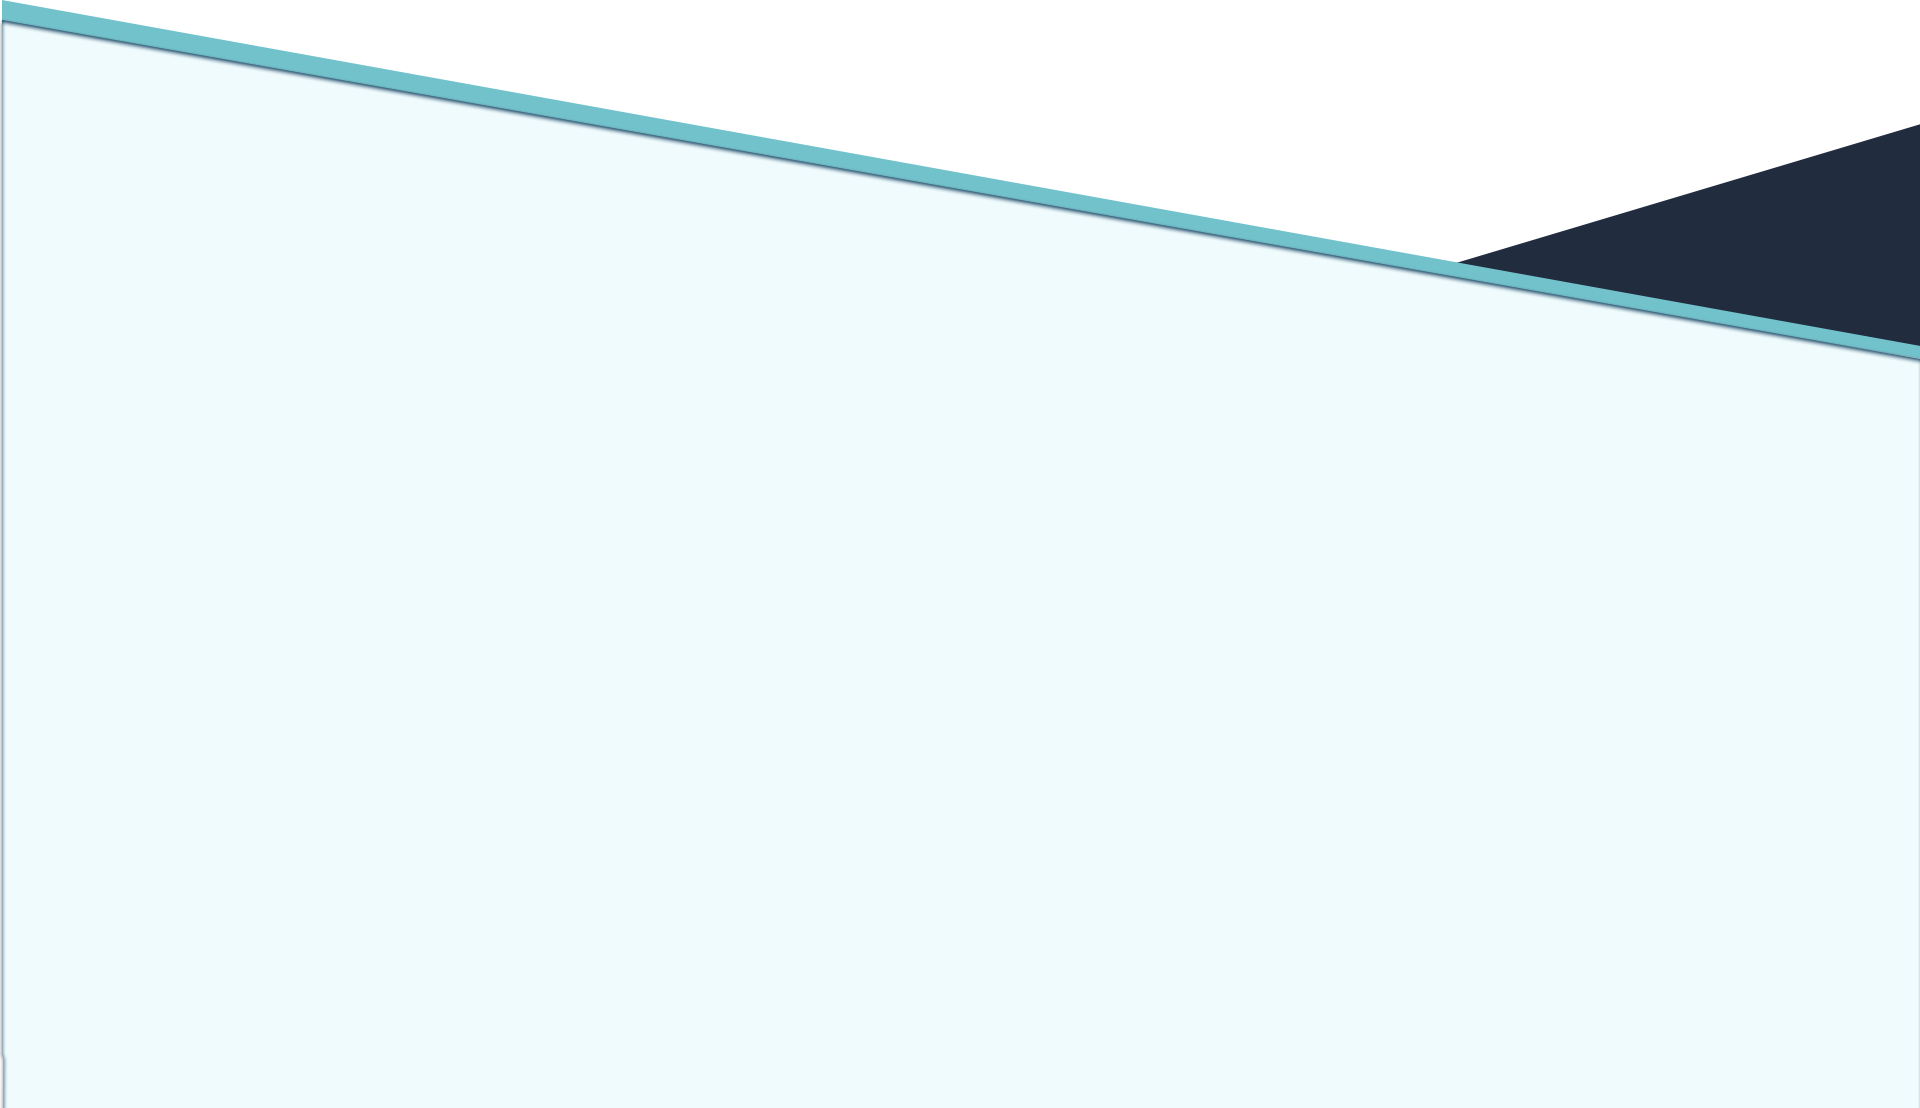
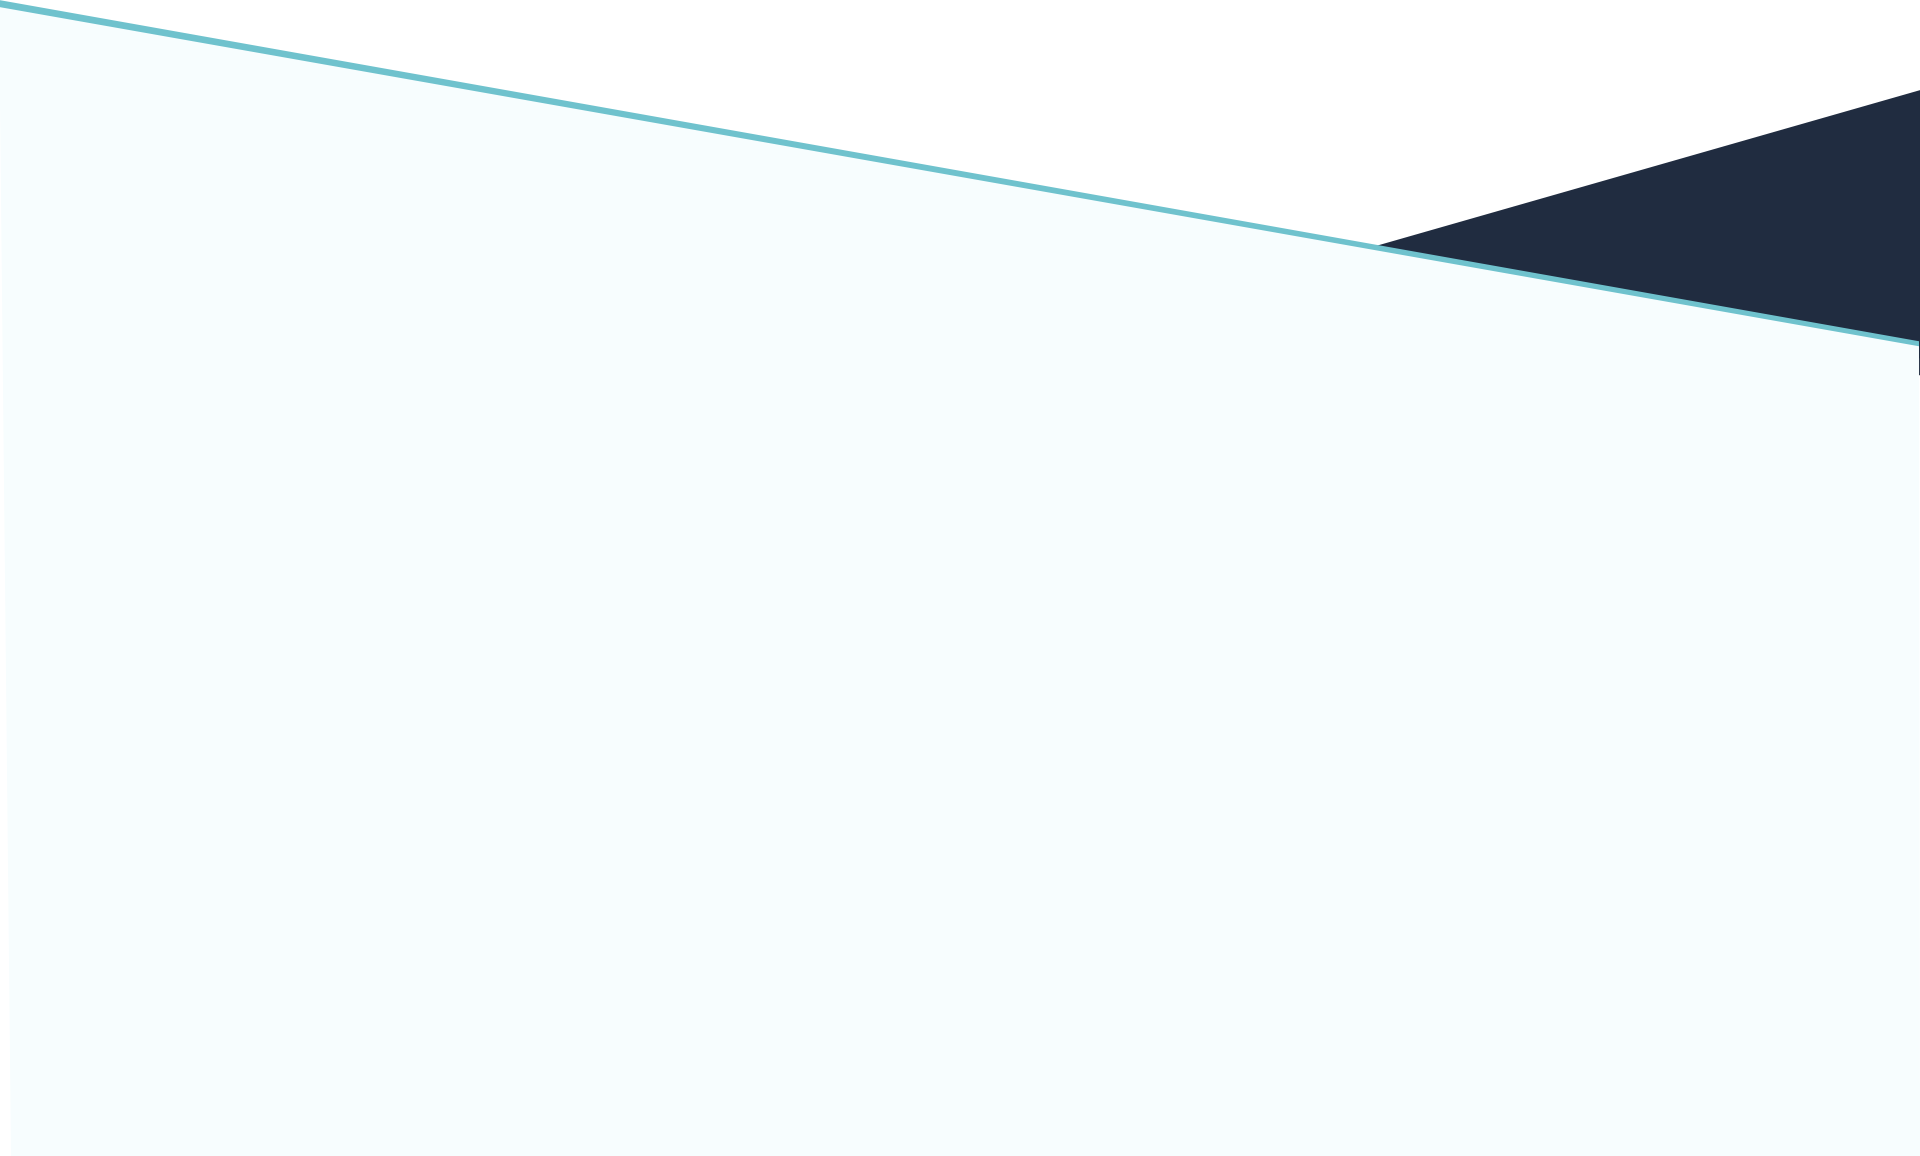
major update before footer update

Changed region(s): [[0.0, 0.0, 1.0, 0.3375]]

diff --git a/index.html b/index.html
@@ -319,7 +319,7 @@
 				</div>
 
 				<div style="margin: 0 auto;
-										margin-top: -180px;
+										margin-top: -212px;
 										position:relative;
 										width: 100px;">
 					<img style="width: 100px;
@@ -346,6 +346,7 @@
 												text-align: center;
 												color: #344765;">
 							Our Mission
+							<img style="margin-top: 15px;" src="img/copy9@2x.png" />
 						</div>
 						<div style="height: 388px;
 												font-family: Raleway;
@@ -383,12 +384,14 @@
 														font-weight: bold;
 														font-style: normal;
 														font-stretch: normal;
+														margin-top:125px;
 														line-height: normal;
 														letter-spacing: -1.2px;
 														text-align: left;
 														color: #ffffff;
 														color: var(--white);">
 									Whitepaper
+									<img style="margin-top: 15px;" src="img/copy9@2x.png" />
 									<a name="whitepaper" class="pin">&nbsp;</a>
 								</div>
 								<div style="height: 100px;
@@ -420,7 +423,9 @@
 								</div>
 							</div>
 							<div class="col-md-6 align-right">
-								<img class="hide-mobile" style="max-width:800px;margin-left:-80px;" src="img/WHITEPAPER@2x.png">
+								<img class="hide-mobile" style="margin-top: -30px;
+    																						margin-left: -100px;"
+										 src="img/WHITEPAPER@2x.png">
 							</div>
 						</div>
 					</div>
@@ -428,7 +433,7 @@
 
 				<div id="parallax6" class="parallax">
 					<div style="margin: 0 auto;
-											margin-top: -57px;
+											margin-top: -110px;
 											width: 100px;">
 						<img style="width: 100px;"
 								 src="img/cube_drop.png" />
@@ -447,6 +452,7 @@
 												text-align: center;
 												color: #384b69;">
 							TECHNOLOGY
+							<img style="margin-top: 15px;" src="img/copy9@2x.png" />
 							<a name="technology" class="pin">&nbsp;</a>
 						</div>
 						<div style="height: 70px;
@@ -490,6 +496,7 @@
 												letter-spacing: -1.2px;
 												text-align: right;
 												color: #ffffff;">
+									<img style="margin-top: 15px;" src="img/copy9@2x.png" />
 									Prototype
 									<a name="prototype" style="top:-482px;" class="pin">&nbsp;</a>
 								</div>
@@ -540,7 +547,7 @@
 				<div style="margin: 0 auto;
 										width: 100px;">
 					<img style="width: 100px;
-											margin-left: 4px;"
+											margin-left: 1px;"
 							 src="img/drop_coin.png" />
 				</div>
 
@@ -635,6 +642,7 @@
 												margin-bottom:199px;
 												color: #344765;">
 							Token  Distribution
+							<img style="margin-top: 15px;" src="img/copy9@2x.png" />
 						</div>
 						<div style="text-align:center;">
 							<img style="margin-left:-100px;width:100%;" src="img/IG_DISTRIBUTION@2x.png" />
@@ -662,6 +670,7 @@
 											text-align: center;
 											color: #ffffff;">
 						ROADMAP
+						<img style="margin-top: 15px;" src="img/copy9@2x.png" />
 					</div>
 					<div style="height: 34px;
 											font-family: Montserrat;
@@ -901,7 +910,7 @@
 				<div style="margin: 0 auto;
 										width: 100px;
 										margin-top: -209px;;">
-					<img style="width: 100px;margin-left:10px;"
+					<img style="width: 100px;"
 							 src="img/drop_team.png" />
 				</div>
 
@@ -921,6 +930,7 @@
 												text-align: center;
 												color: #344765;">
 							TEAM
+							<img style="margin-top: 15px;" src="img/copy9@2x.png" />
 							<a name="team" style="top:-195px;" class="pin">&nbsp;</a>
 						</div>
 						<div style="margin:0 auto;max-width:965px;">
@@ -975,6 +985,7 @@
 												width: 100%;
 												color: #344765;">
 							ADVISORY
+							<img style="margin-top: 15px;" src="img/copy9@2x.png" />
 						</div>
 						<div style="margin:0 auto;max-width:965px;">
 							<div class="portrait-container">

diff --git a/app.css b/app.css
@@ -373,22 +373,24 @@ footer .material-icons{
 
 #parallax4 {
 	background-color:#fff;
-	height: 550px;
+	height: 520px;
 }
 
 #parallax5 {
 	background-image: url(img/par5.png);
-	background-color:#fff;
 	background-position-x:center;
-	padding-top:250px;
-	height: 1000px;
+	padding-top:800px;
+	height: 1679px;
+	margin-top: -350px;
+	position:relative;
+	z-index:1001
 }
 
 #parallax6 {
-	background-image: url(img/par6.png);
+	//background-image: url(img/par6.png);
 	background-position-x:left;
 	margin-top:-366px;
-	height: 1650px;
+	height: 1750px;
 	position:relative;
 	z-index:1000;
 	padding-top:300px;
@@ -399,7 +401,7 @@ footer .material-icons{
 	background-image: url(img/par7.png);
 	background-color:#fff;
 	background-position-x:center;
-	height: 1180px;
+	height: 1198px;
 	position:relative;
 	z-index:999;
 	margin-top:-325px;
@@ -415,15 +417,15 @@ footer .material-icons{
 	background:url('img/par9.png');
 	background-color:#fff;
 	background-position-x:center;
-	height:2547px;
-	padding-top:150px;
+	height:2500px;
+	padding-top:186px;
 }
 
 #parallax10 {
 	background:url('img/par10.png');
 	background-position-x:center;
 	margin-top: -375px;
-	height:4190px;
+	height:4075px;
 	background-color:#fff;
 	padding-top:200px;
 }
